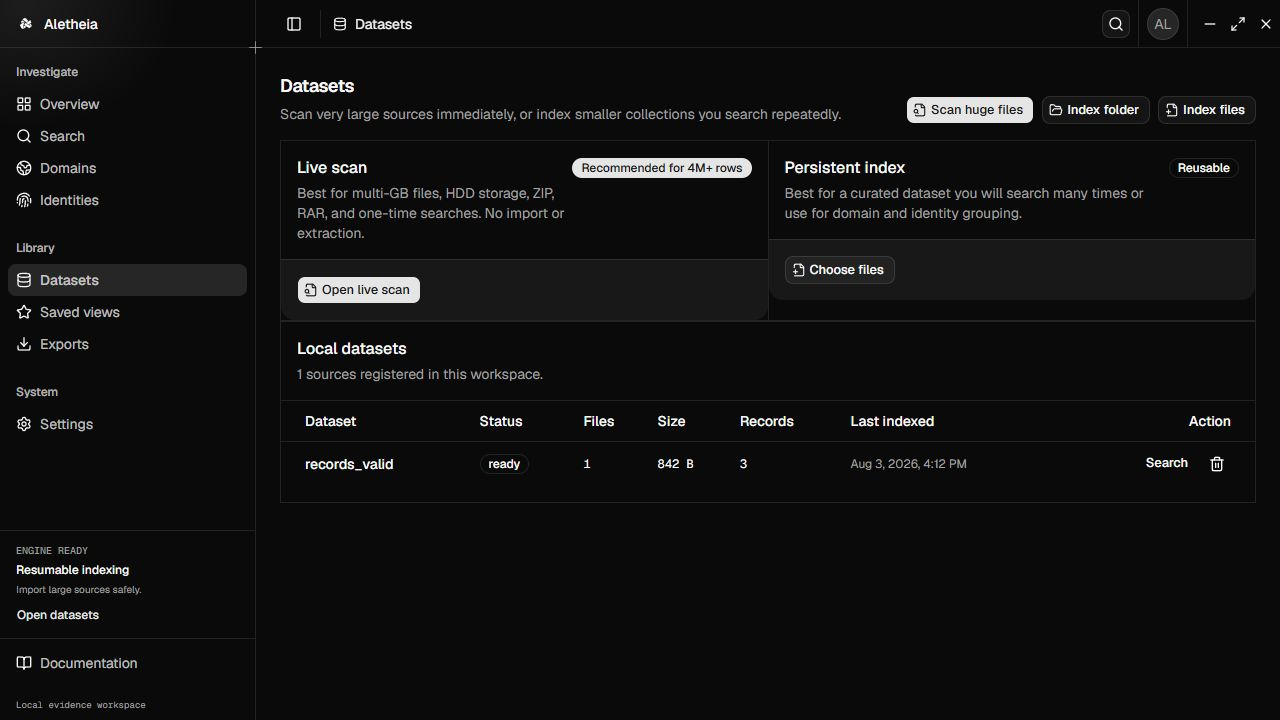
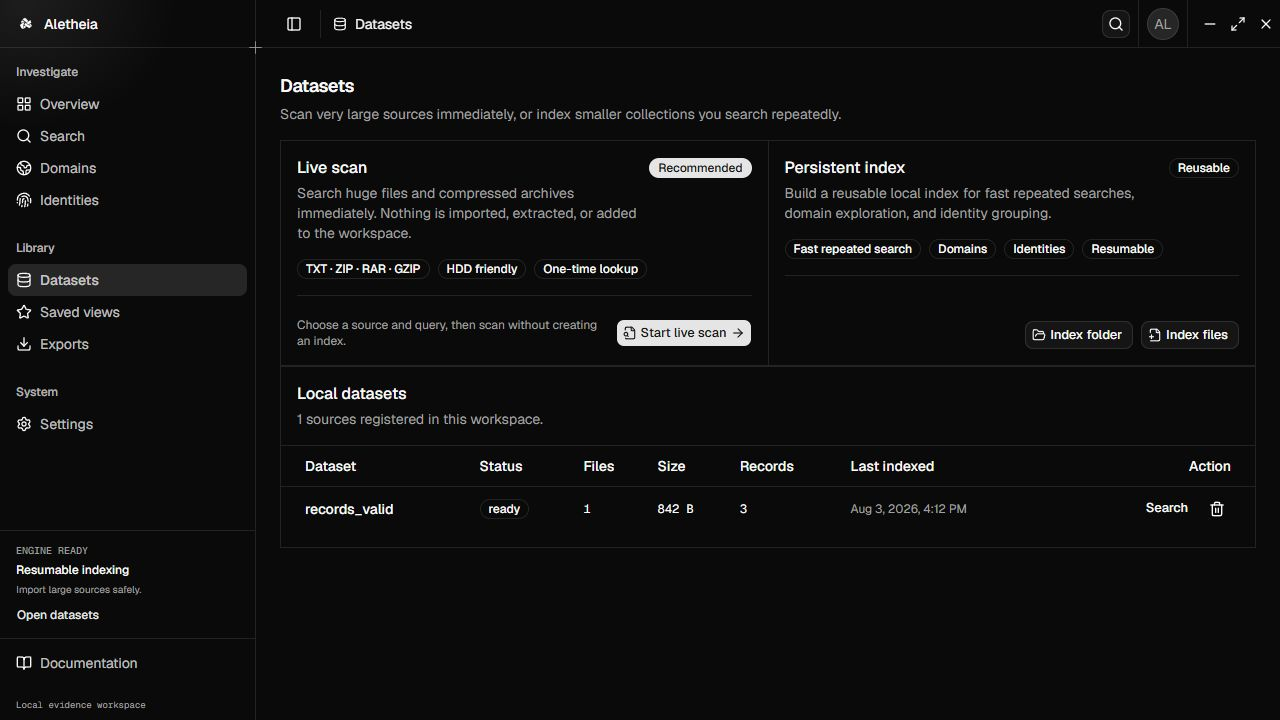
refactor: simplify dataset workflow selection

diff --git a/src/pages/datasets-page.tsx b/src/pages/datasets-page.tsx
@@ -1,6 +1,7 @@
 import { useEffect, useRef, useState } from "react";
 import { useMutation, useQuery, useQueryClient } from "@tanstack/react-query";
 import {
+  ArrowRightIcon,
   FilePlus2Icon,
   FileSearchIcon,
   FolderOpenIcon,
@@ -66,6 +67,7 @@ import {
 } from "@/components/ui/progress";
 import { Switch } from "@/components/ui/switch";
 import { Spinner } from "@/components/ui/spinner";
+import { Separator } from "@/components/ui/separator";
 import {
   Table,
   TableBody,
@@ -283,44 +285,6 @@ export function DatasetsPage() {
   return (
     <div>
       <PageHeader
-        actions={
-          <>
-            <Button
-              nativeButton={false}
-              render={<a href="#/search?surface=direct" />}
-              size="sm"
-            >
-              <FileSearchIcon data-icon="inline-start" />
-              Scan huge files
-            </Button>
-            <Button
-              disabled={inspect.isPending}
-              onClick={() => inspect.mutate("folder")}
-              size="sm"
-              variant="outline"
-            >
-              {inspect.isPending ? (
-                <Spinner data-icon="inline-start" />
-              ) : (
-                <FolderOpenIcon data-icon="inline-start" />
-              )}
-              {inspect.isPending ? "Reading…" : "Index folder"}
-            </Button>
-            <Button
-              disabled={inspect.isPending}
-              onClick={() => inspect.mutate("files")}
-              size="sm"
-              variant="outline"
-            >
-              {inspect.isPending ? (
-                <Spinner data-icon="inline-start" />
-              ) : (
-                <FilePlus2Icon data-icon="inline-start" />
-              )}
-              {inspect.isPending ? "Reading…" : "Index files"}
-            </Button>
-          </>
-        }
         description="Scan very large sources immediately, or index smaller collections you search repeatedly."
         title="Datasets"
       />
@@ -333,54 +297,88 @@ export function DatasetsPage() {
       ) : null}
 
       <div className="grid grid-cols-1 gap-px bg-border p-px md:grid-cols-2">
-        <DashboardCard>
+        <DashboardCard className="min-h-56">
           <CardHeader>
             <CardTitle>Live scan</CardTitle>
             <CardDescription>
-              Best for multi-GB files, HDD storage, ZIP, RAR, and one-time
-              searches. No import or extraction.
+              Search huge files and compressed archives immediately. Nothing is
+              imported, extracted, or added to the workspace.
             </CardDescription>
             <CardAction>
-              <Badge>Recommended for 4M+ rows</Badge>
+              <Badge>Recommended</Badge>
             </CardAction>
           </CardHeader>
-          <CardFooter>
-            <Button
-              nativeButton={false}
-              render={<a href="#/search?surface=direct" />}
-              size="sm"
-            >
-              <FileSearchIcon data-icon="inline-start" />
-              Open live scan
-            </Button>
-          </CardFooter>
+          <CardContent className="flex flex-1 flex-col gap-4">
+            <div className="flex flex-wrap gap-2">
+              <Badge variant="outline">TXT · ZIP · RAR · GZIP</Badge>
+              <Badge variant="outline">HDD friendly</Badge>
+              <Badge variant="outline">One-time lookup</Badge>
+            </div>
+            <Separator />
+            <div className="mt-auto flex items-center justify-between gap-3">
+              <span className="text-xs text-muted-foreground">
+                Choose a source and query, then scan without creating an index.
+              </span>
+              <Button
+                nativeButton={false}
+                render={<a href="#/search?surface=direct" />}
+                size="sm"
+              >
+                <FileSearchIcon data-icon="inline-start" />
+                Start live scan
+                <ArrowRightIcon data-icon="inline-end" />
+              </Button>
+            </div>
+          </CardContent>
         </DashboardCard>
-        <DashboardCard>
+        <DashboardCard className="min-h-56">
           <CardHeader>
             <CardTitle>Persistent index</CardTitle>
             <CardDescription>
-              Best for a curated dataset you will search many times or use for
-              domain and identity grouping.
+              Build a reusable local index for fast repeated searches, domain
+              exploration, and identity grouping.
             </CardDescription>
             <CardAction>
               <Badge variant="outline">Reusable</Badge>
             </CardAction>
           </CardHeader>
-          <CardFooter className="gap-2">
-            <Button
-              disabled={inspect.isPending}
-              onClick={() => inspect.mutate("files")}
-              size="sm"
-              variant="outline"
-            >
-              {inspect.isPending ? (
-                <Spinner data-icon="inline-start" />
-              ) : (
-                <FilePlus2Icon data-icon="inline-start" />
-              )}
-              Choose files
-            </Button>
-          </CardFooter>
+          <CardContent className="flex flex-1 flex-col gap-4">
+            <div className="flex flex-wrap gap-2">
+              <Badge variant="outline">Fast repeated search</Badge>
+              <Badge variant="outline">Domains</Badge>
+              <Badge variant="outline">Identities</Badge>
+              <Badge variant="outline">Resumable</Badge>
+            </div>
+            <Separator />
+            <div className="mt-auto flex flex-wrap items-center justify-end gap-2">
+              <Button
+                disabled={inspect.isPending}
+                onClick={() => inspect.mutate("folder")}
+                size="sm"
+                variant="outline"
+              >
+                {inspect.isPending ? (
+                  <Spinner data-icon="inline-start" />
+                ) : (
+                  <FolderOpenIcon data-icon="inline-start" />
+                )}
+                {inspect.isPending ? "Reading…" : "Index folder"}
+              </Button>
+              <Button
+                disabled={inspect.isPending}
+                onClick={() => inspect.mutate("files")}
+                size="sm"
+                variant="outline"
+              >
+                {inspect.isPending ? (
+                  <Spinner data-icon="inline-start" />
+                ) : (
+                  <FilePlus2Icon data-icon="inline-start" />
+                )}
+                {inspect.isPending ? "Reading…" : "Index files"}
+              </Button>
+            </div>
+          </CardContent>
         </DashboardCard>
       </div>
 

diff --git a/CHANGELOG.md b/CHANGELOG.md
@@ -2,6 +2,7 @@
 
 ## Unreleased
 
+- Redesigned the dataset entry point as two clean Shadcn workflow cards, removed the gray action footers and duplicated header buttons, and made live scan versus persistent indexing easier to understand.
 - Replaced the old application mark with the supplied Aletheia artwork, regenerated every Windows icon asset, and integrated branded minimize, maximize, and close controls into the frameless app shell.
 - Added flexible first/last-name lookup across separate fields and common email separators for both Tantivy search and direct file scans.
 - Added safe dataset removal that deletes only generated SQLite and Tantivy data, blocks removal during active work, and proves the original source remains untouched.
